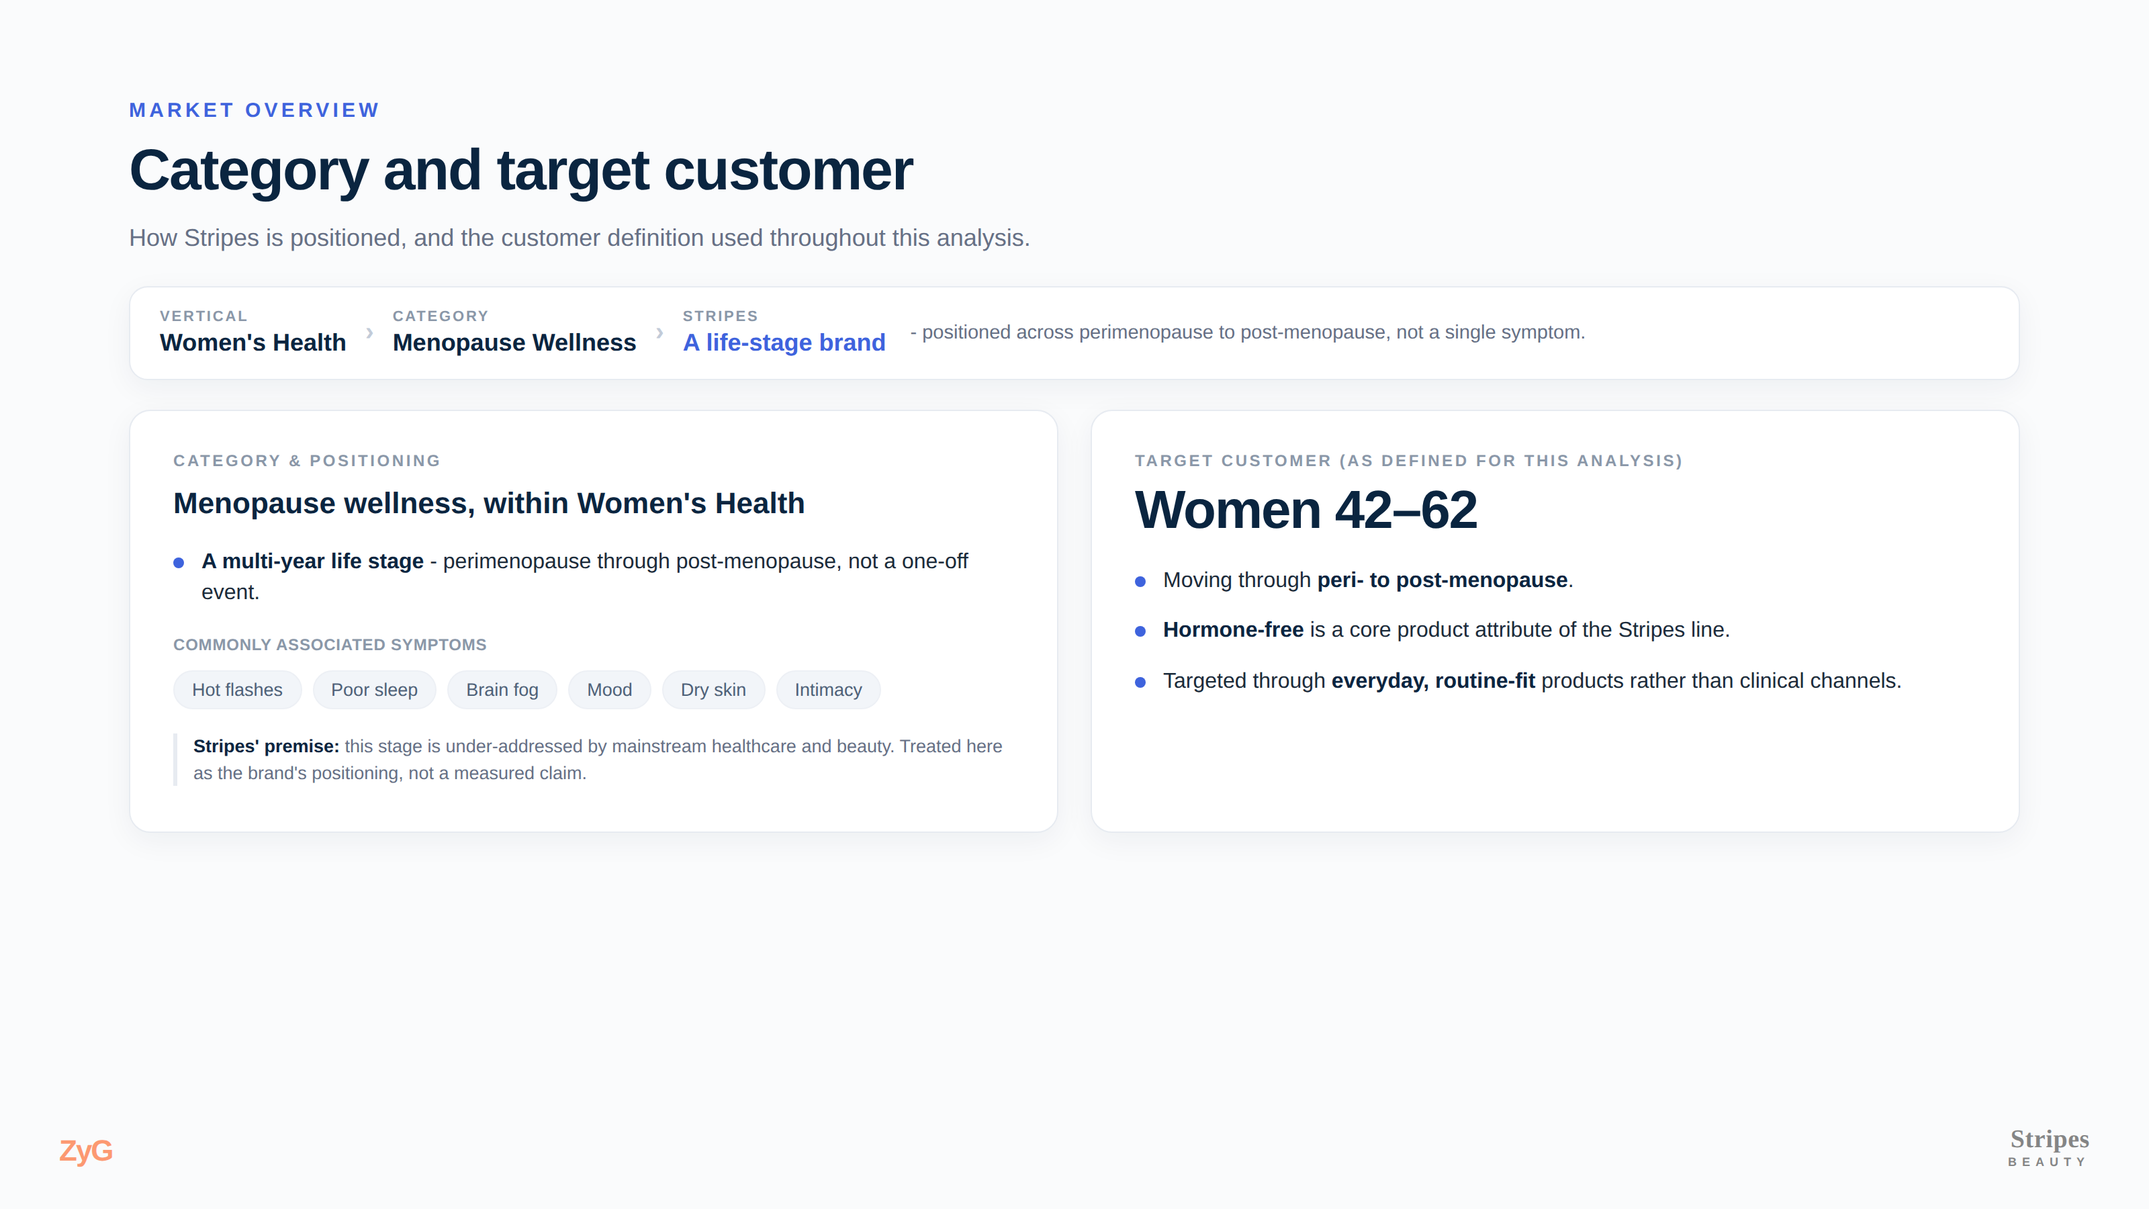
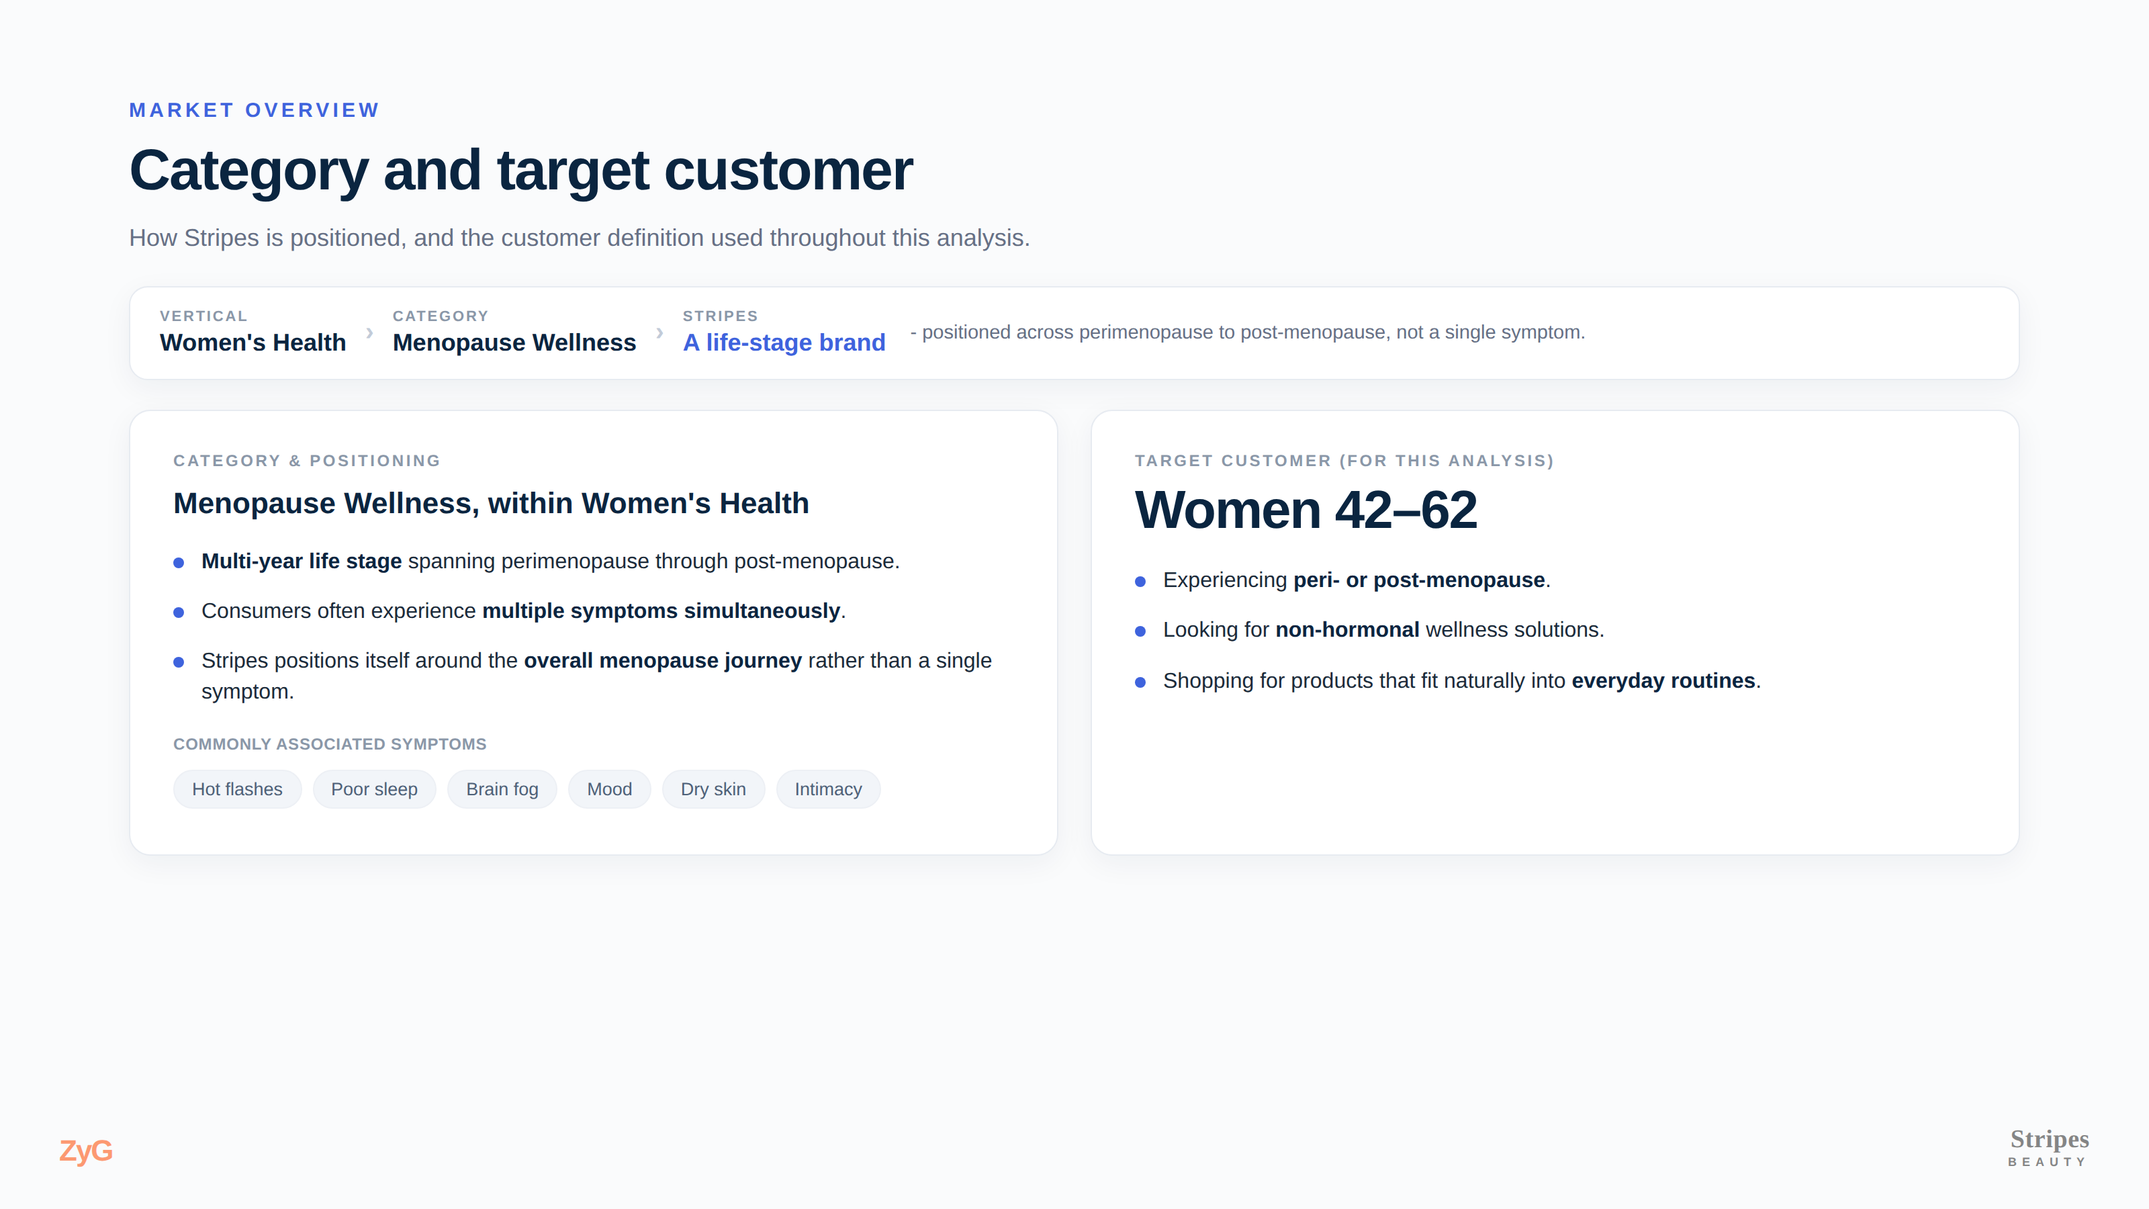
Rewrite Part 1 copy per internal product-review spec
Apply prescribed copy across all six slides: divider subtitle, market bullets
(premise paragraph removed), framework retitled 'How competitors were selected'
and condensed, landscape subtitle + factual-only observations, observation cards
reworded, implications separated observed/inference with new bottom bar. Rename
Indirect to Adjacent throughout for consistency.

Claude-Session: https://claude.ai/code/session_01GoAG3ySswQXo2H1hh5EwTk

diff --git a/diagrams/slides/p1-04-landscape.html b/diagrams/slides/p1-04-landscape.html
@@ -43,7 +43,8 @@
 </style></head><body>
 <div class="slide">
   <div class="kicker">Competitive Landscape</div>
-  <div class="h1">Competitor set and paid acquisition</div>
+  <div class="h1">Competitive set and paid acquisition</div>
+  <div class="lead" style="font-size:16px;margin-top:9px;">Paid share represents paid search, paid social and display as a percentage of each brand's traffic.</div>
 
   <div class="cols">
     <div class="set card">
@@ -56,7 +57,7 @@
         </div>
       </div>
       <div class="grp">
-        <div class="ghd"><span class="badge i">Indirect</span><span class="gc">Adjacent-symptom &middot; 10</span></div>
+        <div class="ghd"><span class="badge i">Adjacent</span><span class="gc">Related symptoms &middot; 10</span></div>
         <div class="chips">
           <span class="chip">Happy Mammoth</span><span class="chip">Alloy</span><span class="chip">Midi</span><span class="chip">Evernow</span>
           <span class="chip">O Positiv</span><span class="chip">Nutrafol</span><span class="chip">Ritual</span>
@@ -68,16 +69,15 @@
 
     <div class="paid card">
       <div class="cap">Paid acquisition, by brand</div>
-      <div class="sub">Paid share = paid search + paid social + display, as % of each brand's traffic.</div>
       <table>
         <thead><tr>
           <th class="l">Brand</th><th class="l">Type</th><th>Est. traffic</th><th>Paid share</th><th>Top paid channel</th>
         </tr></thead>
         <tbody>
-          <tr><td class="l">O Positiv</td><td class="l"><span class="ty i">Indirect</span></td><td>5.8M</td><td><div class="share"><div class="trk"><div class="fl i" style="width:75%"></div></div><span class="vv">75%</span></div></td><td class="ch">Display</td></tr>
-          <tr><td class="l">Midi</td><td class="l"><span class="ty i">Indirect</span></td><td>3.6M</td><td><div class="share"><div class="trk"><div class="fl i" style="width:26%"></div></div><span class="vv">26%</span></div></td><td class="ch">Search</td></tr>
-          <tr><td class="l">Happy Mammoth</td><td class="l"><span class="ty i">Indirect</span></td><td>2.5M</td><td><div class="share"><div class="trk"><div class="fl i" style="width:53%"></div></div><span class="vv">53%</span></div></td><td class="ch">Social</td></tr>
-          <tr><td class="l">Alloy</td><td class="l"><span class="ty i">Indirect</span></td><td>1.7M</td><td><div class="share"><div class="trk"><div class="fl i" style="width:39%"></div></div><span class="vv">39%</span></div></td><td class="ch">Search</td></tr>
+          <tr><td class="l">O Positiv</td><td class="l"><span class="ty i">Adjacent</span></td><td>5.8M</td><td><div class="share"><div class="trk"><div class="fl i" style="width:75%"></div></div><span class="vv">75%</span></div></td><td class="ch">Display</td></tr>
+          <tr><td class="l">Midi</td><td class="l"><span class="ty i">Adjacent</span></td><td>3.6M</td><td><div class="share"><div class="trk"><div class="fl i" style="width:26%"></div></div><span class="vv">26%</span></div></td><td class="ch">Search</td></tr>
+          <tr><td class="l">Happy Mammoth</td><td class="l"><span class="ty i">Adjacent</span></td><td>2.5M</td><td><div class="share"><div class="trk"><div class="fl i" style="width:53%"></div></div><span class="vv">53%</span></div></td><td class="ch">Social</td></tr>
+          <tr><td class="l">Alloy</td><td class="l"><span class="ty i">Adjacent</span></td><td>1.7M</td><td><div class="share"><div class="trk"><div class="fl i" style="width:39%"></div></div><span class="vv">39%</span></div></td><td class="ch">Search</td></tr>
           <tr><td class="l">Bonafide</td><td class="l"><span class="ty d">Direct</span></td><td>1.1M</td><td><div class="share"><div class="trk"><div class="fl" style="width:42%"></div></div><span class="vv">42%</span></div></td><td class="ch">Search</td></tr>
           <tr><td class="l">Estroven</td><td class="l"><span class="ty d">Direct</span></td><td>253K</td><td><div class="share"><div class="trk"><div class="fl" style="width:59%"></div></div><span class="vv">59%</span></div></td><td class="ch">Search</td></tr>
           <tr><td class="l">Kindra</td><td class="l"><span class="ty d">Direct</span></td><td>42K</td><td><div class="share"><div class="trk"><div class="fl" style="width:5%"></div></div><span class="vv">5%</span></div></td><td class="ch">Display</td></tr>
@@ -92,9 +92,9 @@
   </div>
 
   <div class="strip">
-    <div class="ob"><span class="h">Observation 1 &middot; scale</span>The four largest brands by estimated traffic are all <b>indirect</b> (O Positiv, Midi, Happy Mammoth, Alloy). The largest direct brand is Bonafide (1.1M).</div>
+    <div class="ob"><span class="h">Observation 1</span>The four largest brands by estimated traffic are all <b>adjacent brands</b>. Largest menopause-native brand: <b>Bonafide (1.1M)</b>.</div>
     <div class="vl"></div>
-    <div class="ob"><span class="h">Observation 2 &middot; paid share</span>Highest paid share of traffic: <b>O Positiv (75%), Estroven (59%), Happy Mammoth (53%)</b> - two indirect, one direct.</div>
+    <div class="ob"><span class="h">Observation 2</span>Paid investment varies significantly across brands. The highest paid share is observed for <b>O Positiv (75%), Estroven (59%) and Happy Mammoth (53%)</b>.</div>
   </div>
 
   <div class="foot"><div class="zyg">ZyG</div><div class="stripes"><div class="word">Stripes</div><div class="beauty">BEAUTY</div></div></div>

diff --git a/diagrams/slides/p1-03-framework.html b/diagrams/slides/p1-03-framework.html
@@ -1,17 +1,15 @@
 <!doctype html><html><head><meta charset="utf-8"><link rel="stylesheet" href="style.css">
 <style>
-  .qrow{display:flex;align-items:stretch;gap:20px;margin-top:30px;}
-  .q{flex:1;padding:26px 28px;display:flex;align-items:center;gap:18px;}
+  .qrow{display:flex;align-items:stretch;gap:20px;margin-top:34px;}
+  .q{flex:1;padding:28px 30px;display:flex;align-items:center;gap:18px;}
   .qn{width:40px;height:40px;border-radius:50%;background:var(--navy);color:#fff;font-weight:700;font-size:17px;display:flex;align-items:center;justify-content:center;flex-shrink:0;}
   .qt{font-size:22px;font-weight:700;color:var(--navy);}
-  .qs{font-size:15px;color:var(--muted);margin-top:3px;}
+  .qs{font-size:15px;color:var(--muted);margin-top:4px;line-height:1.4;}
   .arrow{display:flex;align-items:center;color:#B7C2D3;font-size:30px;font-weight:700;}
   .result{background:var(--navy);color:#fff;border-radius:16px;padding:26px 30px;display:flex;flex-direction:column;justify-content:center;min-width:250px;}
   .result .r1{font-size:13px;letter-spacing:1.6px;text-transform:uppercase;color:#9FC0FF;font-weight:700;}
   .result .r2{font-size:22px;font-weight:700;margin-top:6px;line-height:1.25;}
-  .note{font-size:16px;color:var(--muted);margin-top:22px;}
-  .note b{color:var(--navy);}
-  .defs{display:flex;gap:22px;margin-top:26px;}
+  .defs{display:flex;gap:22px;margin-top:28px;}
   .def{flex:1;padding:28px 30px;}
   .def .badge{display:inline-block;font-size:12px;font-weight:700;letter-spacing:1.4px;text-transform:uppercase;padding:6px 13px;border-radius:999px;}
   .def.d .badge{background:var(--blue-soft);color:var(--blue);}
@@ -21,26 +19,25 @@
 </style></head><body>
 <div class="slide">
   <div class="kicker">Competitive Framework</div>
-  <div class="h1">How we define a competitor</div>
+  <div class="h1">How competitors were selected</div>
 
   <div class="qrow">
-    <div class="q card"><div class="qn">1</div><div><div class="qt">Same customer?</div><div class="qs">Aimed at a peri- or menopausal woman.</div></div></div>
-    <div class="q card"><div class="qn">2</div><div><div class="qt">Same problem?</div><div class="qs">Bought to ease her symptoms.</div></div></div>
+    <div class="q card"><div class="qn">1</div><div><div class="qt">Same customer?</div><div class="qs">Targets women experiencing peri- or menopause.</div></div></div>
+    <div class="q card"><div class="qn">2</div><div><div class="qt">Same problem?</div><div class="qs">Offers products intended to address menopause-related symptoms.</div></div></div>
     <div class="arrow">&#8594;</div>
-    <div class="result"><div class="r1">Both yes</div><div class="r2">Relevant<br>competitor</div></div>
+    <div class="result"><div class="r1">Both yes</div><div class="r2">Included in<br>the set</div></div>
   </div>
-  <div class="note">The lens is <b>customer intent</b>, not product similarity - so the set includes brands that don't look like Stripes but compete for the same woman.</div>
 
   <div class="defs">
     <div class="def d card">
       <span class="badge">Direct</span>
-      <h3>Menopause-native brands</h3>
-      <p>Menopause is the core positioning - the head-to-head set she would choose between.</p>
+      <h3>Direct competitors</h3>
+      <p>Brands positioned primarily around menopause wellness.</p>
     </div>
     <div class="def i card">
-      <span class="badge">Indirect</span>
-      <h3>Adjacent-symptom brands</h3>
-      <p>Own a neighboring symptom - hair, intimacy, hormones, gut - and compete for the same attention and acquisition channels.</p>
+      <span class="badge">Adjacent</span>
+      <h3>Adjacent competitors</h3>
+      <p>Brands solving related symptoms or competing for the same audience.</p>
     </div>
   </div>
 

diff --git a/diagrams/slides/p1-06-takeaway.html b/diagrams/slides/p1-06-takeaway.html
@@ -18,39 +18,39 @@
 </style></head><body>
 <div class="slide">
   <div class="kicker">Implications</div>
-  <div class="h1">What this means for Stripes</div>
-  <div class="lead" style="font-size:17.5px;">Three implications follow from the observations. Each is an inference from the data shown, not a measured result.</div>
+  <div class="h1">Implications for Stripes</div>
+  <div class="lead" style="font-size:17.5px;">Observations are stated separately from implications. Each implication is an inference from the data shown.</div>
 
   <div class="imps">
     <div class="imp card">
       <div class="obl">Observed</div>
-      <div class="obt">Stripes' estimated traffic (<b>~11K/mo</b>) is below every brand in the set; the smallest measured is ~41K.</div>
+      <div class="obt">Stripes' estimated traffic (<b>~11K/month</b>) is below every measured competitor included in this analysis.</div>
       <div class="impl">
         <div class="l">Implication</div>
-        <div class="t">The near-term constraint is likely <b>top-of-funnel traffic</b>, not competitive share.</div>
+        <div class="t"><b>Traffic acquisition</b> is likely the primary near-term growth challenge.</div>
       </div>
     </div>
     <div class="imp card">
       <div class="obl">Observed</div>
-      <div class="obt">Across the set, the leading paid channel is <b>split</b> across search, display, and social.</div>
+      <div class="obt">Across competitors, the leading paid channel varies between <b>search, display and social</b>.</div>
       <div class="impl">
         <div class="l">Implication</div>
-        <div class="t">No single channel is forced by the category - <b>multiple are worth testing</b>.</div>
+        <div class="t">Channel strategy should be <b>validated through experimentation</b> rather than assumed.</div>
       </div>
     </div>
     <div class="imp card">
       <div class="obl">Observed</div>
-      <div class="obt">Direct-brand paid share ranges <b>5%&ndash;59%</b>; only two of the measured menopause-native brands invest heavily.</div>
+      <div class="obt">Paid investment among menopause-native brands is <b>uneven</b>.</div>
       <div class="impl">
         <div class="l">Implication</div>
-        <div class="t">Paid presence from direct competitors is <b>uneven, not saturated</b>.</div>
+        <div class="t">The direct competitive set does <b>not appear uniformly aggressive</b> in paid acquisition.</div>
       </div>
     </div>
   </div>
 
   <div class="next">
     <span class="lbl">Next</span>
-    <div class="t">Part 2 covers the hero-product launch - <b>The Inside Addition</b> - and how it is set up for acquisition.</div>
+    <div class="t">Part 2 focuses on the <b>proposed hero product launch</b> and the acquisition strategy built around it.</div>
     <span class="arr">&#8594;</span>
   </div>
 

diff --git a/diagrams/slides/p1-02-market.html b/diagrams/slides/p1-02-market.html
@@ -41,25 +41,26 @@
   <div class="cols">
     <div class="col card">
       <div class="cap">Category &amp; positioning</div>
-      <h3>Menopause wellness, within Women's Health</h3>
+      <h3>Menopause Wellness, within Women's Health</h3>
       <div class="rowlist">
-        <div class="rl"><span class="dot"></span><div class="t"><b>A multi-year life stage</b> - perimenopause through post-menopause, not a one-off event.</div></div>
+        <div class="rl"><span class="dot"></span><div class="t"><b>Multi-year life stage</b> spanning perimenopause through post-menopause.</div></div>
+        <div class="rl"><span class="dot"></span><div class="t">Consumers often experience <b>multiple symptoms simultaneously</b>.</div></div>
+        <div class="rl"><span class="dot"></span><div class="t">Stripes positions itself around the <b>overall menopause journey</b> rather than a single symptom.</div></div>
       </div>
       <div class="lbl">Commonly associated symptoms</div>
       <div class="tags">
         <span class="tg">Hot flashes</span><span class="tg">Poor sleep</span><span class="tg">Brain fog</span>
         <span class="tg">Mood</span><span class="tg">Dry skin</span><span class="tg">Intimacy</span>
       </div>
-      <div class="premise"><b>Stripes' premise:</b> this stage is under-addressed by mainstream healthcare and beauty. Treated here as the brand's positioning, not a measured claim.</div>
     </div>
 
     <div class="col card">
-      <div class="cap">Target customer (as defined for this analysis)</div>
+      <div class="cap">Target customer (for this analysis)</div>
       <div class="big">Women 42&ndash;62</div>
       <div class="rowlist">
-        <div class="rl"><span class="dot"></span><div class="t">Moving through <b>peri- to post-menopause</b>.</div></div>
-        <div class="rl"><span class="dot"></span><div class="t"><b>Hormone-free</b> is a core product attribute of the Stripes line.</div></div>
-        <div class="rl"><span class="dot"></span><div class="t">Targeted through <b>everyday, routine-fit</b> products rather than clinical channels.</div></div>
+        <div class="rl"><span class="dot"></span><div class="t">Experiencing <b>peri- or post-menopause</b>.</div></div>
+        <div class="rl"><span class="dot"></span><div class="t">Looking for <b>non-hormonal</b> wellness solutions.</div></div>
+        <div class="rl"><span class="dot"></span><div class="t">Shopping for products that fit naturally into <b>everyday routines</b>.</div></div>
       </div>
     </div>
   </div>

diff --git a/diagrams/slides/p1-05-insights.html b/diagrams/slides/p1-05-insights.html
@@ -18,25 +18,25 @@
   <div class="row3">
     <div class="ins card">
       <div class="n">01</div>
-      <h3>The largest brands in the set are indirect</h3>
-      <p>By estimated traffic, the four biggest brands are all <b>adjacent-symptom</b> brands, not menopause-native ones. The largest direct brand is smaller than all four.</p>
+      <h3>The largest brands in the set are adjacent brands</h3>
+      <p>The four highest-traffic brands are not menopause-native brands.</p>
       <div class="data">O Positiv 5.8M &middot; Midi 3.6M &middot; Happy Mammoth 2.5M &middot; Alloy 1.7M <b>vs.</b> Bonafide 1.1M</div>
     </div>
     <div class="ins card">
       <div class="n">02</div>
-      <h3>No single paid channel leads across the set</h3>
-      <p>The top paid channel differs by brand. <b>Search</b> is most common (4 of 8), with <b>display</b> and <b>social</b> each leading for others.</p>
+      <h3>Paid acquisition strategies differ by brand</h3>
+      <p>No single paid channel dominates across the competitive set.</p>
       <div class="data">Search: Estroven, Bonafide, Alloy, Midi &middot; Display: O Positiv, Womaness, Kindra &middot; Social: Happy Mammoth</div>
     </div>
     <div class="ins card">
       <div class="n">03</div>
-      <h3>Direct brands' paid share varies widely</h3>
-      <p>Among menopause-native brands, paid share of traffic ranges from <b>5% to 59%</b>. Two invest heavily; two barely register.</p>
+      <h3>Paid investment among menopause-native brands is inconsistent</h3>
+      <p>Some invest heavily in paid channels, while others have minimal paid presence.</p>
       <div class="data">High: Estroven 59%, Bonafide 42% &middot; Low: Womaness 17%, Kindra 5%</div>
     </div>
   </div>
 
-  <div class="note"><b>On Stripes:</b> traffic is below the reliable reporting threshold of Similarweb and Semrush (est. ~11K/month), so it isn't in the table above. Stripes does run paid social today (visible in Meta Ad Library).</div>
+  <div class="note">Stripes' estimated traffic (~11K/month) is below the reporting threshold for Similarweb. Paid social activity is visible through Meta Ad Library.</div>
 
   <div class="foot"><div class="zyg">ZyG</div><div class="stripes"><div class="word">Stripes</div><div class="beauty">BEAUTY</div></div></div>
 </div>

diff --git a/diagrams/slides/p1-01-divider.html b/diagrams/slides/p1-01-divider.html
@@ -5,7 +5,7 @@
     <div style="border-left:2px solid #E4EAF6;padding-left:46px;">
       <div class="kicker">Part 1</div>
       <div class="h1" style="font-size:62px;max-width:960px;margin-top:16px;">Market &amp; Competitive Landscape</div>
-      <div class="lead" style="font-size:22px;max-width:860px;">Category and customer definition, how competitors are scoped, and how they compare on paid acquisition. Sources: Similarweb and Semrush, Apr&ndash;Jun 2026.</div>
+      <div class="lead" style="font-size:22px;max-width:860px;">Understanding the category, the competitive set, and the paid acquisition landscape.</div>
     </div>
   </div>
   <div class="foot"><div class="zyg">ZyG</div><div class="stripes"><div class="word">Stripes</div><div class="beauty">BEAUTY</div></div></div>
